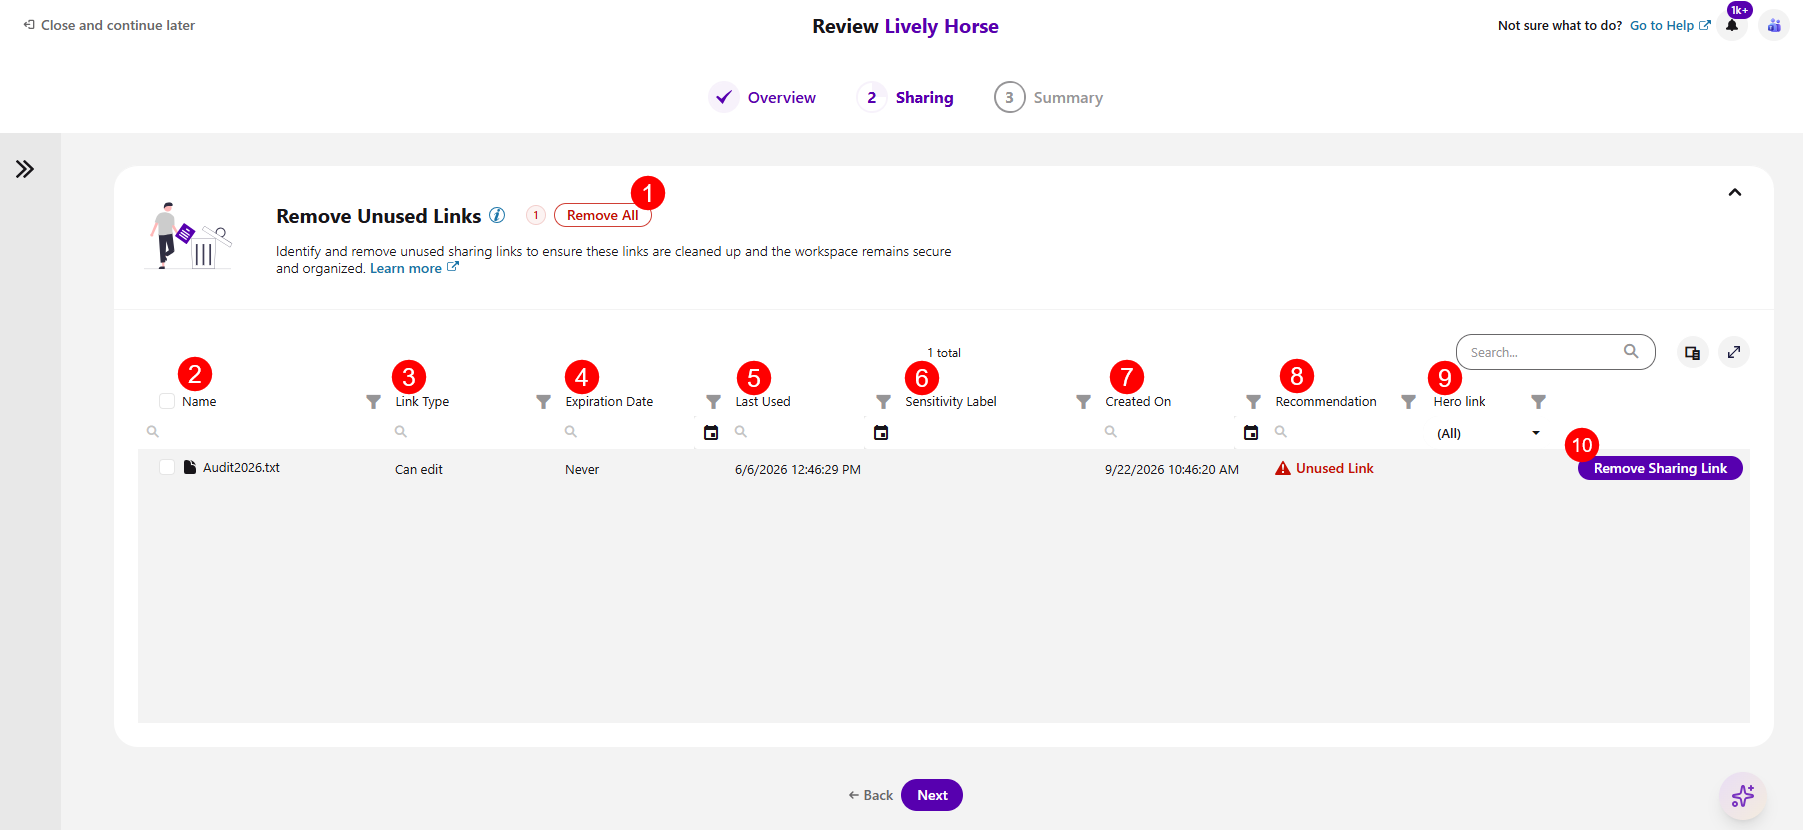
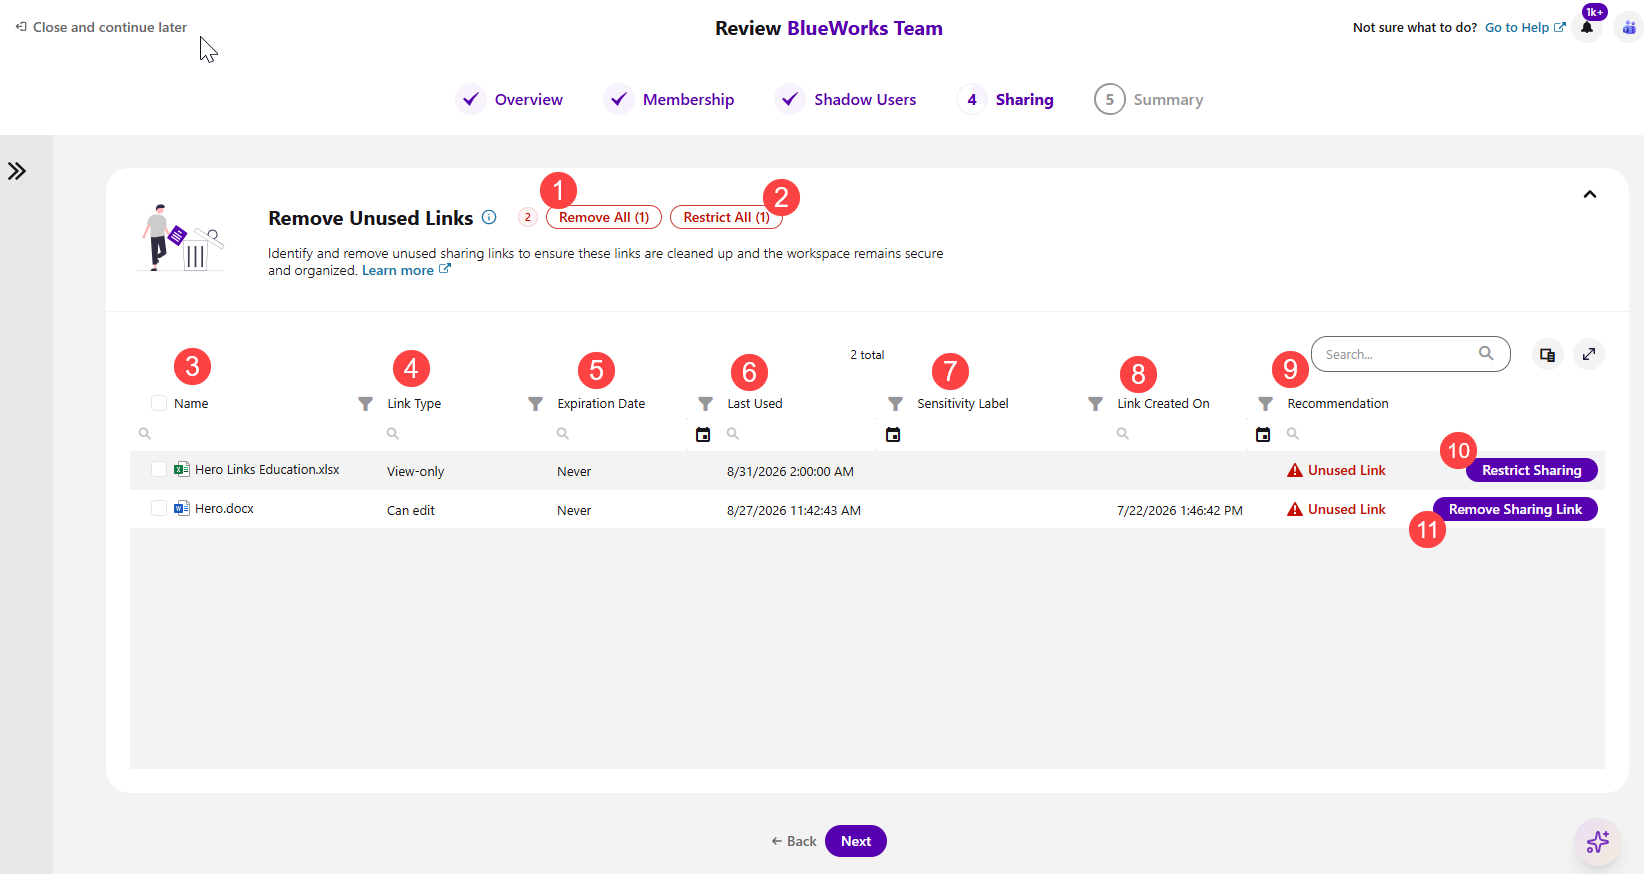
unused screen

diff --git a/docs/point-collaborators/workspace-review/sharing-step.md b/docs/point-collaborators/workspace-review/sharing-step.md
@@ -69,19 +69,20 @@ On the **Remove Unused Links** sections, you can identify and remove **unused sh
 On this screen, you can find the following:
 
 * **Remove All (1)** action button next to the name of the workspace, which removes all unused links
+* **Restrict All (2)** action button, which restricts sharing on main/hero links so that only people who were already added keep access
 
 The columns available are: 
 
-* **Name (2)** of the content 
-* **Link Type (3)** - the level of sharing given through the link, for example, view-only, password-protected (edit), etc.
-* **Expiration Date (4)** - shows when the link is set to expire
-* **Last Used (5)** - the date the content was last used
-* **Sensitivity label (6)** - shows if there is a sensitivity label assigned to the content
-* **Created On (7)** - shows when the content was originally created
-* **Recommendation (8)** - this section provides a recommendation from Syskit Point on what actions should be taken if there are any notable recommendations to be made. The following recommendation could be suggested:
+* **Name (3)** - the name of the content
+* **Link Type (4)** - the level of sharing given through the link, for example, view-only, password-protected (edit), etc.
+* **Expiration Date (5)** - shows when the link is set to expire
+* **Last Used (6)** - the date the content was last used
+* **Sensitivity Label (7)** - shows if there is a sensitivity label assigned to the content
+* **Link Created On (8)** - shows when the link was created
+* **Recommendation (9)** - this section provides a recommendation from Syskit Point on what actions should be taken if there are any notable recommendations to be made. The following recommendation could be suggested:
    * **Unused Link** - unused links are links that haven't been used in the last 30 days
-* **Hero link (9)** - identifies Microsoft's default per-item sharing link (the new sharing experience) and distinguishes it from classic sharing links
-* The **Remove Sharing Link (10)** action
+* The **Restrict Sharing (10)** action, which restricts sharing so that only people who were already added keep access
+* The **Remove Sharing Link (11)** action
   * Clicking this action opens the Remove Sharing Link modal, where you need to confirm the removal of the sharing link
 
 :::info
@@ -91,7 +92,7 @@ Since SharePoint does not allow deleting a hero/main link, you can only run the 
 
 :::
 
-![Workspace Review - Sharing Step - Shared with Anyone](../../../static/img/workspace-review-sharing-step-unused.png)
+![Workspace Review - Sharing Step - Unused Links](../../../static/img/workspace-review-sharing-step-unused.png)
 
 Once you've completed the actions you want to take, clicking Next takes you to the next section of this step.
 
